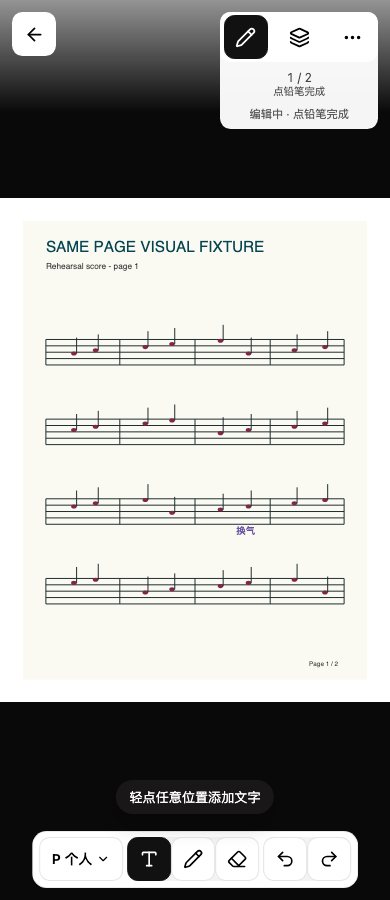
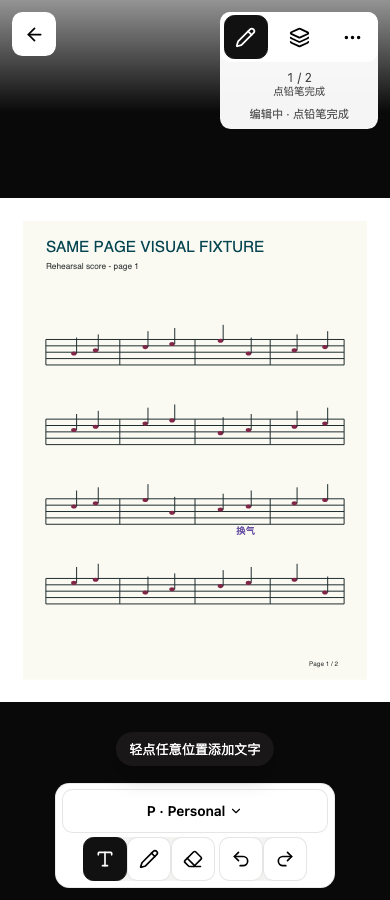
Preserve layer context and diagnostic interactions after rebase

Changed region(s): [[0.0615, 0.8711, 0.9231, 0.9956], [0.3385, 0.8089, 0.6769, 0.84]]

diff --git a/src/client/routes/reader-page.tsx b/src/client/routes/reader-page.tsx
@@ -75,7 +75,8 @@ import {
   type ReaderSyncOutcome,
 } from "../reader/reader-sync-status";
 
-import { DiagnosticReportDialog } from "../diagnostics/diagnostic-report-dialog";
+import type { DiagnosticReader } from "../../shared/diagnostic-report";
+import { DiagnosticReportDialog, DiagnosticReportModal } from "../diagnostics/diagnostic-report-dialog";
 
 type ReaderPanel = "layers" | "pages";
 
@@ -135,6 +136,7 @@ function ReaderPageContent() {
   const [chromeVisible, setChromeVisible] = useState(false);
   const [readerPanel, setReaderPanel] = useState<ReaderPanel | null>(null);
   const [moreOpen, setMoreOpen] = useState(false);
+  const [diagnosticOpen, setDiagnosticOpen] = useState(false);
   const moreTrigger = useRef<HTMLButtonElement>(null);
   const [editingOrigin, setEditingOrigin] = useState<{
     layout: ReaderLayout;
@@ -256,7 +258,7 @@ function ReaderPageContent() {
     const handleKeyDown = (event: KeyboardEvent) => {
       if (
         layout !== "page" ||
-        readerPanel !== null || moreOpen ||
+        readerPanel !== null || moreOpen || diagnosticOpen ||
         editing ||
         event.metaKey ||
         event.ctrlKey ||
@@ -278,7 +280,7 @@ function ReaderPageContent() {
     };
     window.addEventListener("keydown", handleKeyDown);
     return () => window.removeEventListener("keydown", handleKeyDown);
-  }, [editing, layout, moreOpen, readerPanel, requestPage]);
+  }, [editing, layout, moreOpen, diagnosticOpen, readerPanel, requestPage]);
 
   const beginEditing = () => {
     if (cloudState === "trashed") {
@@ -415,12 +417,13 @@ function ReaderPageContent() {
     }
   };
 
-  const diagnosticDialog = <DiagnosticReportDialog reader={{
+  const diagnosticReader: DiagnosticReader = {
     displayMode: reader.snapshot.mode,
     interactionMode: editing ? "editing" : "reading",
     pendingCount: activeAnnotations ? Math.min(9999, pendingCount) : null,
     conflictCount: activeAnnotations ? Math.min(9999, conflicts.length) : null,
-  }} />;
+  };
+  const diagnosticDialog = <DiagnosticReportDialog reader={diagnosticReader} />;
 
   if (!workspace) {
     return <main className="page-shell compact-page">
@@ -547,6 +550,15 @@ function ReaderPageContent() {
         if (editing && event.target instanceof Element && event.target.closest("a")) event.preventDefault();
       }}>
       <ReaderNavigationGuard editing={editing} />
+      <DiagnosticReportModal
+        reader={diagnosticReader}
+        isOpen={diagnosticOpen}
+        onOpenChange={open => {
+          setDiagnosticOpen(open);
+          // Restore focus after the modal releases its focus trap and inert background.
+          if (!open) requestAnimationFrame(() => moreTrigger.current?.focus());
+        }}
+      />
       <h1 className="visually-hidden">{score.fileName}</h1>
       {cloudState === "trashed" ? (
         <aside className="reader-alert reader-alert--trash" role="alert">
@@ -722,7 +734,7 @@ function ReaderPageContent() {
               </>}
               <section aria-label="阅读帮助"><h2>帮助</h2>
                 <p className="reader-more-menu__status">轻点中央显示工具；点按两侧或左右滑动翻页。编辑时锁定当前页，再点铅笔完成。批注同步与离线副本分别准备。</p>
-                {diagnosticDialog}
+                <Button onPress={() => { setMoreOpen(false); setDiagnosticOpen(true); }}>故障诊断</Button>
               </section>
             </Dialog>
             </Popover>
@@ -741,9 +753,10 @@ function ReaderPageContent() {
         />
       ) : null}
 
-      {editing && annotationInteraction === "idle" && persistence === "idle" ? (
+      {editing && annotationInteraction === "idle" ? (
         <Suspense fallback={<p role="status">正在准备批注工具…</p>}>
           <ReaderEditingControls
+            isDisabled={persistence !== "idle"}
             workspace={workspace}
             layers={layers}
             tool={tool}

diff --git a/src/client/reader/reader-editing-controls.tsx b/src/client/reader/reader-editing-controls.tsx
@@ -13,6 +13,7 @@ import type { LocalWorkspace } from "../platform/local-workspace";
 import "./reader-ux.css";
 
 export function ReaderEditingControls({
+  isDisabled,
   workspace,
   layers,
   tool,
@@ -20,6 +21,7 @@ export function ReaderEditingControls({
   onToolChange,
   onLayerChange,
 }: {
+  isDisabled: boolean;
   workspace: LocalWorkspace;
   layers: AnnotationLayerSummary[];
   tool: AnnotationTool;
@@ -42,6 +44,7 @@ export function ReaderEditingControls({
     <section className="annotation-controls" aria-label="批注工具">
       <DialogTrigger isOpen={choosingLayer} onOpenChange={setChoosingLayer}>
         <Button
+          isDisabled={isDisabled}
           className="reader-edit-layer-trigger"
           aria-label={`当前编辑层：${selectedLayer?.kind === "personal" ? "P · Personal" : `${selectedLayer?.defaultSlot} · ${selectedLayer?.name}`}，写到哪里`}
         >
@@ -56,6 +59,7 @@ export function ReaderEditingControls({
             <div className="annotation-layer-switcher" aria-label="编辑层">
               {defaultSharedLayerSlots.map((slot) => (
                 <LayerSlotButton
+                  isDisabled={isDisabled}
                   key={slot}
                   slot={slot}
                   layer={defaultLayers.get(slot)}
@@ -67,6 +71,7 @@ export function ReaderEditingControls({
             <p>个人层 · 仅自己可见</p>
             <div className="annotation-layer-switcher">
               <LayerSlotButton
+                isDisabled={isDisabled}
                 slot="P"
                 layer={personalLayer}
                 activeLayerId={activeLayerId}
@@ -81,6 +86,7 @@ export function ReaderEditingControls({
         <div className="segmented-control" aria-label="批注工具">
           {(["text", "ink", "eraser"] as const).map((entry) => (
             <Button
+              isDisabled={isDisabled}
               aria-label={{ text: "文本", ink: "画笔", eraser: "整条橡皮" }[entry]}
               aria-pressed={tool === entry}
               className="annotation-tool-button"
@@ -94,6 +100,7 @@ export function ReaderEditingControls({
       </div>
       <div className="annotation-control-group annotation-history-controls" aria-label="历史">
         <Button
+          isDisabled={isDisabled}
           aria-label="撤销"
           className="annotation-tool-button"
           onPress={() => activeLayerId ? void undoAnnotationEdit(workspace, activeLayerId) : undefined}
@@ -101,6 +108,7 @@ export function ReaderEditingControls({
           <Undo2 aria-hidden="true" size={20} />
         </Button>
         <Button
+          isDisabled={isDisabled}
           aria-label="重做"
           className="annotation-tool-button"
           onPress={() => activeLayerId ? void redoAnnotationEdit(workspace, activeLayerId) : undefined}
@@ -113,11 +121,13 @@ export function ReaderEditingControls({
 }
 
 function LayerSlotButton({
+  isDisabled,
   slot,
   layer,
   activeLayerId,
   onLayerChange,
 }: {
+  isDisabled: boolean;
   slot: DefaultSharedLayerSlot | "P";
   layer: AnnotationLayerSummary | undefined;
   activeLayerId: string | null;
@@ -126,6 +136,7 @@ function LayerSlotButton({
   const label = slot === "P" ? "P，Personal" : `${slot}，${layer?.name ?? slot}`;
   const button = (
     <Button
+      isDisabled={isDisabled}
       aria-label={`${label}${layer?.canEdit ? "" : "，只读，查看权限说明"}`}
       aria-pressed={layer?.id === activeLayerId}
       className="annotation-layer-slot"

diff --git a/src/client/routes/reader-page.test.tsx b/src/client/routes/reader-page.test.tsx
@@ -1,3 +1,4 @@
+import Dexie from "dexie";
 import type { AnnotationLayerSummary } from "../../shared/annotations";
 import { act, cleanup, fireEvent, render, screen, waitFor, within } from "@testing-library/react";
 import {
@@ -2221,7 +2222,7 @@ it("offers an exit and cancellation while the PDF never settles", async () => {
     expect(JSON.parse(report.value).reader.interactionMode).toBe("editing");
     fireEvent.click(within(screen.getByRole("dialog", { name: "故障诊断" })).getByRole("button", { name: "关闭" }));
     expect(editButton).toHaveAttribute("aria-pressed", "true");
-    fireEvent.click(screen.getByRole("button", { name: "更多" }));
+    expect(screen.queryByRole("dialog", { name: "更多阅读选项" })).not.toBeInTheDocument();
     expect(screen.getByLabelText("翻页阅读")).toBeInTheDocument();
     expect(screen.queryByRole("button", { name: "下一页" })).not.toBeInTheDocument();
     fireEvent.keyDown(window, { key: "ArrowRight" });
@@ -2289,6 +2290,31 @@ it("offers an exit and cancellation while the PDF never settles", async () => {
         { name: "取消" },
       ),
     );
+
+    // A slow/failed ink write must retain the selected target from #141,
+    // while #142 prevents changing layers, tools or history before persistence.
+    fireEvent.click(screen.getByRole("button", { name: "画笔" }));
+    const inkOverlay = screen.getByLabelText("第 1 页批注层");
+    vi.spyOn(inkOverlay, "getBoundingClientRect").mockReturnValue({ x: 0, y: 0, top: 0, left: 0, right: 100, bottom: 100, width: 100, height: 100, toJSON: () => ({}) });
+    let rejectWrite!: (reason: Error) => void;
+    const write = vi.spyOn(localDatabase.annotations, "put").mockImplementation(() => new Dexie.Promise((_resolve, reject) => { rejectWrite = reject; }));
+    fireEvent.pointerDown(inkOverlay, { pointerId: 21, clientX: 20, clientY: 30 });
+    fireEvent.pointerMove(inkOverlay, { pointerId: 21, clientX: 40, clientY: 50 });
+    fireEvent.pointerUp(inkOverlay, { pointerId: 21, clientX: 40, clientY: 50 });
+    await waitFor(() => expect(write).toHaveBeenCalled());
+    const target = screen.getByRole("button", { name: /当前编辑层：E · Ensemble/ });
+    expect(target).toBeVisible();
+    expect(target).toBeDisabled();
+    for (const name of ["文本", "画笔", "整条橡皮", "撤销", "重做"]) {
+      expect(screen.getByRole("button", { name })).toBeDisabled();
+    }
+    rejectWrite(new DOMException("full", "QuotaExceededError"));
+    await screen.findByRole("button", { name: "重试本机保存" });
+    expect(target).toBeVisible();
+    expect(target).toBeDisabled();
+    write.mockRestore();
+    fireEvent.click(screen.getByRole("button", { name: "重试本机保存" }));
+    await waitFor(() => expect(target).toBeEnabled());
 
     virtualTestState.itemSize = 200;
     fireEvent.click(editButton);

diff --git a/src/client/diagnostics/diagnostic-report-dialog.tsx b/src/client/diagnostics/diagnostic-report-dialog.tsx
@@ -5,7 +5,16 @@ import { DiagnosticReportForm } from "./diagnostic-report-form";
 export function DiagnosticReportDialog({ reader }: { reader: DiagnosticReader }) {
   return <DialogTrigger>
     <Button className="secondary-button">故障诊断</Button>
-    <ModalOverlay className="diagnostic-overlay" isDismissable>
+    <DiagnosticReportModal reader={reader} />
+  </DialogTrigger>;
+}
+
+export function DiagnosticReportModal({ reader, isOpen, onOpenChange }: {
+  reader: DiagnosticReader;
+  isOpen?: boolean;
+  onOpenChange?(isOpen: boolean): void;
+}) {
+  return <ModalOverlay className="diagnostic-overlay" isDismissable isOpen={isOpen} onOpenChange={onOpenChange}>
       <Modal className="diagnostic-modal">
         <Dialog>
           {({ close }) => <>
@@ -17,6 +26,5 @@ export function DiagnosticReportDialog({ reader }: { reader: DiagnosticReader })
           </>}
         </Dialog>
       </Modal>
-    </ModalOverlay>
-  </DialogTrigger>;
+    </ModalOverlay>;
 }

diff --git a/docs/operations/verification-142.md b/docs/operations/verification-142.md
@@ -1,6 +1,6 @@
 # #142 阅读器工具、保存状态与恢复验证
 
-关联 [#142](https://github.com/itscly2026/same-page/issues/142)。实现于独立 worktree，基线 `6de4882`。范围为阅读器呈现及既有会话的恢复；没有更改服务端转换、权限协议、数据库结构或 #141 的图层信息架构。
+关联 [#142](https://github.com/itscly2026/same-page/issues/142)。实现于独立 worktree，初始基线 `6de4882`，随后 rebase 到 `main` 的 `5c238c0`。范围为阅读器呈现及既有会话的恢复；没有更改服务端转换、权限协议、数据库结构或 #141 的图层信息架构。
 
 ## 最终行为
 
@@ -50,3 +50,11 @@ PATH="/tmp/same-page-issue142-renderer/bin:$PATH" npm run check
 ```
 
 PDFium 基准图校验通过。初次 smoke 因系统 Python 缺少 Pillow 而转换失败；另外已将图片 smoke 的更多菜单查询更新为最终 Dialog 语义。早期两次单独浏览器测试曾在全部交互完成后遇到本机子进程清理 `EPERM`，后续独立重跑及完整视觉套件通过。
+
+## 与最新 main 的集成复核
+
+保留 #141 的“显示哪些批注 / 写到哪里”和当前编辑层提示，以及 #143 的诊断发送面板。保存或失败期间仍显示当前编辑层，暂时禁用图层、工具及历史操作，重试成功后恢复。更多在编辑期只提供帮助和诊断；打开诊断时收起更多，防止 Popover 遮挡诊断面板。诊断打开时拦截底层翻页快捷键，关闭后焦点返回“更多”，编辑状态保留。
+
+Rebase 后 lint、typecheck、41 项单元、314 项客户端及 83 项 Worker 测试通过。36 项视觉断言全部通过；上传队列文件的 macOS 子进程清理遇到 `EPERM`，Chromium/WebKit 两项独立复跑通过。生产构建及 precache 审计通过。真实 Chromium/WebKit + Worker/D1 的诊断测试扩展了菜单退出、标题实际无遮挡、阅读态键盘不翻底层谱面及关闭后焦点恢复断言；阅读器持久化、断线重连、下载/显示失败的完整交互也通过。
+
+更新后的 [手机菜单](issue-142/390-menu.png)、[编辑目标](issue-142/390-editing.png) 和 [平板诊断](issue-142/diagnostic-webkit-reader.png) 已重新查看。其余代表截图保留初次实现的场景证据；完整重跑产物位于 `artifacts/verification/`。浏览器/视口模拟仍不代表实体设备或生产验收。
